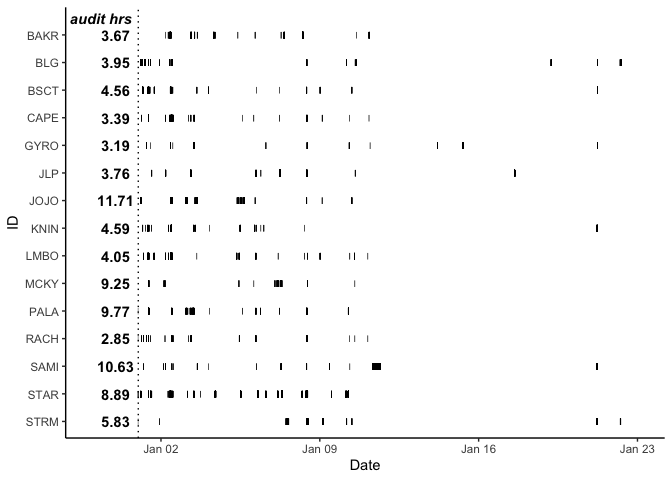
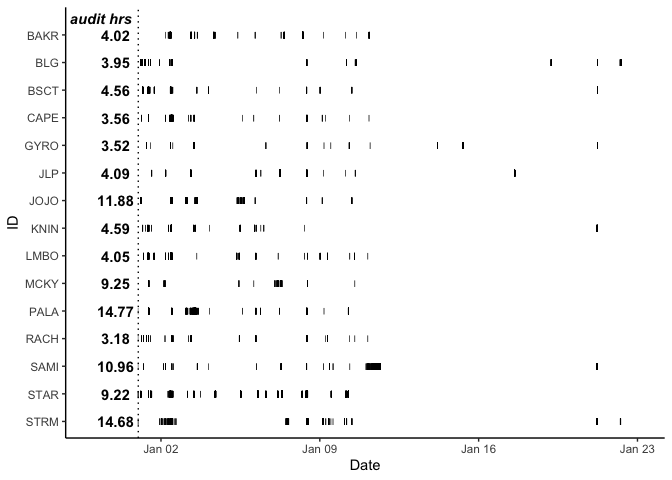
update readme

diff --git a/README.md b/README.md
@@ -1,9 +1,9 @@
 # Hyena cc23 labeling status
-Last updated on June 14, 2024
+Last updated on August 04, 2024
 
 ### Current state
 
-There are 5.8 hours of calls in 90.09 hours of total audit time.
+There are 6.16 hours of calls in 106.29 hours of total audit time.
 
 ### Labels by date and id
 
@@ -15,18 +15,18 @@ There are 5.8 hours of calls in 90.09 hours of total audit time.
 
 | call | total_count |  foc |  non | unf | total_duration | total_inds | total_audits |
 |:-----|------------:|-----:|-----:|----:|---------------:|-----------:|-------------:|
-| whp  |        3212 | 1243 | 1933 |  29 |        4515.60 |         15 |          159 |
-| grn  |        3410 | 2332 |  963 | 101 |        4305.11 |         15 |          159 |
-| gig  |         770 |  127 |  564 |  74 |         855.99 |         15 |           85 |
-| rum  |         721 |  547 |  152 |  21 |        1022.59 |         15 |           69 |
-| sql  |        1514 |  169 | 1214 | 129 |        1361.77 |         15 |           82 |
-| gwl  |         256 |   74 |  165 |  19 |         241.86 |         13 |           31 |
+| whp  |        3496 | 1312 | 2141 |  36 |        4873.50 |         15 |          164 |
+| grn  |        4177 | 2997 | 1015 | 151 |        4971.82 |         15 |          167 |
+| gig  |         831 |  138 |  587 | 101 |         940.19 |         15 |           89 |
+| rum  |         736 |  561 |  153 |  21 |        1046.05 |         15 |           73 |
+| sql  |        1544 |  170 | 1240 | 132 |        1391.07 |         15 |           87 |
+| gwl  |         280 |   80 |  181 |  21 |         269.35 |         13 |           33 |
 | fed  |         550 |  548 |    3 |   0 |        6085.40 |         10 |           17 |
-| str  |         913 |    2 |  903 |   3 |        1052.56 |         15 |           80 |
-| oth  |        2049 |  355 | 1467 | 206 |         908.71 |         15 |          161 |
-| fus  |          56 |   19 |   32 |   3 |          86.85 |         11 |           26 |
-| seq  |         119 |   40 |   67 |  14 |         231.97 |         13 |           38 |
-| unk  |         408 |    8 |   86 |   7 |         287.62 |         15 |           97 |
+| str  |         920 |    2 |  910 |   3 |        1062.40 |         15 |           82 |
+| oth  |        2223 |  374 | 1575 | 253 |        1018.26 |         15 |          170 |
+| fus  |          65 |   26 |   32 |   5 |          97.80 |         11 |           28 |
+| seq  |         120 |   40 |   68 |  14 |         233.63 |         13 |           39 |
+| unk  |         428 |    8 |   86 |   7 |         314.80 |         15 |          100 |
 | syn  |          11 |    0 |    0 |   0 |           4.52 |          3 |            4 |
 
 ### Start and end of audit issues
@@ -39,10 +39,12 @@ These audits have issues with start and end of audit:
 | 188   | audit not bounded by soa/eoa |
 | 330   | audit not bounded by soa/eoa |
 | 253   | audit not bounded by soa/eoa |
+| 396   | audit not bounded by soa/eoa |
 | 334   | too many soa and eoa         |
 | 9     | audit not bounded by soa/eoa |
 | 333   | too many soa and eoa         |
 | 254   | audit not bounded by soa/eoa |
+| 440   | audit not bounded by soa/eoa |
 | 305   | audit not bounded by soa/eoa |
 | 412   | audit not bounded by soa/eoa |
 | 66    | audit not bounded by soa/eoa |
@@ -51,6 +53,7 @@ These audits have issues with start and end of audit:
 | 60    | audit not bounded by soa/eoa |
 | 64    | audit not bounded by soa/eoa |
 | 68    | audit not bounded by soa/eoa |
+| 446   | audit not bounded by soa/eoa |
 | 34    | audit not bounded by soa/eoa |
 | 19    | audit not bounded by soa/eoa |
 | 37    | audit not bounded by soa/eoa |
